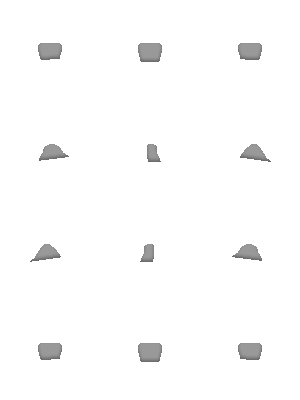
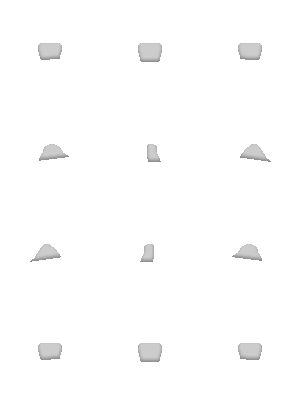
new clothes

diff --git a/gamepalclient/src/drawBlock.js b/gamepalclient/src/drawBlock.js
@@ -613,27 +613,29 @@ export const drawBlockMethods = {
           bodyPartArray[offsetXTemp][offsetYTemp] = []
           switch (bodyPart) {
             case constants.BODY_PART_TORSO:
-              image = this.drawBodyPart(canvasInfo, staticData, images, userInfo, images.bodyPartsImage.torsos[playerInfoTemp.gender - 1], offsetXTemp, offsetYTemp, imageX, imageY, x, y, xCoef, yCoef, zoomRatio, skinColors[1])
-              bodyPartArray[offsetXTemp][offsetYTemp].push(image)
               if (utilMethods.isDef(playerInfoTemp.outfits) && playerInfoTemp.outfits.length > 0) {
                 for (outfitIndex in playerInfoTemp.outfits) {
                   outfitNo = playerInfoTemp.outfits[outfitIndex]
                   switch (outfitNo) {
                     case constants.ITEM_NO_OUTFIT_ZGC_1:
-                      image = this.drawBodyPart(canvasInfo, staticData, images, userInfo, images.bodyPartsImage.torsos[playerInfoTemp.gender - 1], offsetXTemp, offsetYTemp, imageX, imageY, x, y, xCoef, yCoef, zoomRatio, 'rgba(0, 0, 196, 1)')
+                      image = this.drawBodyPart(canvasInfo, staticData, images, userInfo, images.bodyPartsImage.torsos, 4, offsetYTemp, imageX, imageY, x, y, xCoef, yCoef, zoomRatio, 'rgba(255, 255, 255, 1)')
+                      bodyPartArray[offsetXTemp][offsetYTemp].push(image)
+                      image = this.drawBodyPart(canvasInfo, staticData, images, userInfo, images.bodyPartsImage.torsos, 7, offsetYTemp, imageX, imageY, x, y, xCoef, yCoef, zoomRatio, 'rgba(0, 0, 196, 1)')
                       bodyPartArray[offsetXTemp][offsetYTemp].push(image)
                       break
                     case constants.ITEM_NO_OUTFIT_ZGC_2:
-                      image = this.drawBodyPart(canvasInfo, staticData, images, userInfo, images.bodyPartsImage.torsos[playerInfoTemp.gender - 1], offsetXTemp, offsetYTemp, imageX, imageY, x, y, xCoef, yCoef, zoomRatio, 'rgba(196, 0, 0, 1)')
+                      image = this.drawBodyPart(canvasInfo, staticData, images, userInfo, images.bodyPartsImage.torsos, 4, offsetYTemp, imageX, imageY, x, y, xCoef, yCoef, zoomRatio, 'rgba(255, 255, 255, 1)')
+                      bodyPartArray[offsetXTemp][offsetYTemp].push(image)
+                      image = this.drawBodyPart(canvasInfo, staticData, images, userInfo, images.bodyPartsImage.torsos, 7, offsetYTemp, imageX, imageY, x, y, xCoef, yCoef, zoomRatio, 'rgba(196, 0, 0, 1)')
                       bodyPartArray[offsetXTemp][offsetYTemp].push(image)
                       break
                     case constants.ITEM_NO_OUTFIT_SOLDIER:
-                      image = this.drawBodyPart(canvasInfo, staticData, images, userInfo, images.bodyPartsImage.torsos[playerInfoTemp.gender - 1], offsetXTemp, offsetYTemp, imageX, imageY, x, y, xCoef, yCoef, zoomRatio, 'rgba(0, 196, 0, 1)')
+                      image = this.drawBodyPart(canvasInfo, staticData, images, userInfo, images.bodyPartsImage.torsos, 4, offsetYTemp, imageX, imageY, x, y, xCoef, yCoef, zoomRatio, 'rgba(0, 196, 0, 1)')
                       bodyPartArray[offsetXTemp][offsetYTemp].push(image)
                       break
                     case constants.ITEM_NO_OUTFIT_SUIT_1:
                     case constants.ITEM_NO_OUTFIT_SUIT_2:
-                      image = this.drawBodyPart(canvasInfo, staticData, images, userInfo, images.bodyPartsImage.torsos[playerInfoTemp.gender - 1], offsetXTemp, offsetYTemp, imageX, imageY, x, y, xCoef, yCoef, zoomRatio, 'rgba(0, 0, 0, 1)')
+                      image = this.drawBodyPart(canvasInfo, staticData, images, userInfo, images.bodyPartsImage.torsos, 4, offsetYTemp, imageX, imageY, x, y, xCoef, yCoef, zoomRatio, 'rgba(0, 0, 0, 1)')
                       bodyPartArray[offsetXTemp][offsetYTemp].push(image)
                       break
                     case constants.ITEM_NO_OUTFIT_NRA_1:
@@ -645,11 +647,14 @@ export const drawBlockMethods = {
                     case constants.ITEM_NO_OUTFIT_NRA_7:
                     case constants.ITEM_NO_OUTFIT_IJA_1:
                     case constants.ITEM_NO_OUTFIT_IJA_2:
-                      image = this.drawBodyPart(canvasInfo, staticData, images, userInfo, images.bodyPartsImage.torsos[playerInfoTemp.gender - 1], offsetXTemp, offsetYTemp, imageX, imageY, x, y, xCoef, yCoef, zoomRatio, this.getUniformColor(outfitNo))
+                      image = this.drawBodyPart(canvasInfo, staticData, images, userInfo, images.bodyPartsImage.torsos, 5, offsetYTemp, imageX, imageY, x, y, xCoef, yCoef, zoomRatio, this.getUniformColor(outfitNo))
                       bodyPartArray[offsetXTemp][offsetYTemp].push(image)
                       break
                   }
                 }
+              } else {
+                image = this.drawBodyPart(canvasInfo, staticData, images, userInfo, images.bodyPartsImage.torsos, playerInfoTemp.gender - 1, offsetYTemp, imageX, imageY, x, y, xCoef, yCoef, zoomRatio, skinColors[1])
+                bodyPartArray[offsetXTemp][offsetYTemp].push(image)
               }
               break
             case constants.BODY_PART_LEFT_HAND:
@@ -661,16 +666,15 @@ export const drawBlockMethods = {
             case constants.BODY_PART_LEFT_ARM:
             case constants.BODY_PART_RIGHT_ARM:
               var imgArms = bodyPart == constants.BODY_PART_LEFT_ARM ? images.bodyPartsImage.left_arms : images.bodyPartsImage.right_arms
+              var imgSleevesLong = bodyPart == constants.BODY_PART_LEFT_ARM ? images.bodyPartsImage.left_sleeves_long : images.bodyPartsImage.right_sleeves_long
               var imgArmbands = bodyPart == constants.BODY_PART_LEFT_ARM ? images.bodyPartsImage.left_armbands : images.bodyPartsImage.right_armbands
               var imgZgc = bodyPart == constants.BODY_PART_LEFT_ARM ? images.bodyPartsImage.left_zgc : images.bodyPartsImage.right_zgc
-              image = this.drawBodyPart(canvasInfo, staticData, images, userInfo, imgArms, offsetXTemp, offsetYTemp, imageX, imageY, x, y, xCoef, yCoef, zoomRatio, skinColors[1])
-              bodyPartArray[offsetXTemp][offsetYTemp].push(image)
               if (utilMethods.isDef(playerInfoTemp.outfits) && playerInfoTemp.outfits.length > 0) {
                 for (outfitIndex in playerInfoTemp.outfits) {
                   outfitNo = playerInfoTemp.outfits[outfitIndex]
                   switch (outfitNo) {
                     case constants.ITEM_NO_OUTFIT_ZGC_1:
-                      image = this.drawBodyPart(canvasInfo, staticData, images, userInfo, imgArms, offsetXTemp, offsetYTemp, imageX, imageY, x, y, xCoef, yCoef, zoomRatio, 'rgba(255, 255, 255, 1)')
+                      image = this.drawBodyPart(canvasInfo, staticData, images, userInfo, imgSleevesLong, offsetXTemp, offsetYTemp, imageX, imageY, x, y, xCoef, yCoef, zoomRatio, 'rgba(255, 255, 255, 1)')
                       bodyPartArray[offsetXTemp][offsetYTemp].push(image)
                       image = this.drawBodyPart(canvasInfo, staticData, images, userInfo, imgArmbands, offsetXTemp, offsetYTemp, imageX, imageY, x, y, xCoef, yCoef, zoomRatio, 'rgba(0, 0, 196, 1)')
                       bodyPartArray[offsetXTemp][offsetYTemp].push(image)
@@ -678,7 +682,7 @@ export const drawBlockMethods = {
                       bodyPartArray[offsetXTemp][offsetYTemp].push(image)
                       break
                     case constants.ITEM_NO_OUTFIT_ZGC_2:
-                      image = this.drawBodyPart(canvasInfo, staticData, images, userInfo, imgArms, offsetXTemp, offsetYTemp, imageX, imageY, x, y, xCoef, yCoef, zoomRatio, 'rgba(255, 255, 255, 1)')
+                      image = this.drawBodyPart(canvasInfo, staticData, images, userInfo, imgSleevesLong, offsetXTemp, offsetYTemp, imageX, imageY, x, y, xCoef, yCoef, zoomRatio, 'rgba(255, 255, 255, 1)')
                       bodyPartArray[offsetXTemp][offsetYTemp].push(image)
                       image = this.drawBodyPart(canvasInfo, staticData, images, userInfo, imgArmbands, offsetXTemp, offsetYTemp, imageX, imageY, x, y, xCoef, yCoef, zoomRatio, 'rgba(196, 0, 0, 1)')
                       bodyPartArray[offsetXTemp][offsetYTemp].push(image)
@@ -686,12 +690,12 @@ export const drawBlockMethods = {
                       bodyPartArray[offsetXTemp][offsetYTemp].push(image)
                       break
                     case constants.ITEM_NO_OUTFIT_SOLDIER:
-                      image = this.drawBodyPart(canvasInfo, staticData, images, userInfo, imgArms, offsetXTemp, offsetYTemp, imageX, imageY, x, y, xCoef, yCoef, zoomRatio, 'rgba(0, 196, 0, 1)')
+                      image = this.drawBodyPart(canvasInfo, staticData, images, userInfo, imgSleevesLong, offsetXTemp, offsetYTemp, imageX, imageY, x, y, xCoef, yCoef, zoomRatio, 'rgba(0, 196, 0, 1)')
                       bodyPartArray[offsetXTemp][offsetYTemp].push(image)
                       break
                     case constants.ITEM_NO_OUTFIT_SUIT_1:
                     case constants.ITEM_NO_OUTFIT_SUIT_2:
-                      image = this.drawBodyPart(canvasInfo, staticData, images, userInfo, imgArms, offsetXTemp, offsetYTemp, imageX, imageY, x, y, xCoef, yCoef, zoomRatio, 'rgba(0, 0, 0, 1)')
+                      image = this.drawBodyPart(canvasInfo, staticData, images, userInfo, imgSleevesLong, offsetXTemp, offsetYTemp, imageX, imageY, x, y, xCoef, yCoef, zoomRatio, 'rgba(0, 0, 0, 1)')
                       bodyPartArray[offsetXTemp][offsetYTemp].push(image)
                       break
                     case constants.ITEM_NO_OUTFIT_NRA_1:
@@ -703,11 +707,14 @@ export const drawBlockMethods = {
                     case constants.ITEM_NO_OUTFIT_NRA_7:
                     case constants.ITEM_NO_OUTFIT_IJA_1:
                     case constants.ITEM_NO_OUTFIT_IJA_2:
-                      image = this.drawBodyPart(canvasInfo, staticData, images, userInfo, imgArms, offsetXTemp, offsetYTemp, imageX, imageY, x, y, xCoef, yCoef, zoomRatio, this.getUniformColor(outfitNo))
+                      image = this.drawBodyPart(canvasInfo, staticData, images, userInfo, imgSleevesLong, offsetXTemp, offsetYTemp, imageX, imageY, x, y, xCoef, yCoef, zoomRatio, this.getUniformColor(outfitNo))
                       bodyPartArray[offsetXTemp][offsetYTemp].push(image)
                       break
                   }
                 }
+              } else {
+                image = this.drawBodyPart(canvasInfo, staticData, images, userInfo, imgArms, offsetXTemp, offsetYTemp, imageX, imageY, x, y, xCoef, yCoef, zoomRatio, skinColors[1])
+                bodyPartArray[offsetXTemp][offsetYTemp].push(image)
               }
               break
             case constants.BODY_PART_BREAST:
@@ -725,31 +732,31 @@ export const drawBlockMethods = {
                     case constants.ITEM_NO_OUTFIT_ZGC_1:
                       showBreasts = false
                       showBra = false
-                      image = this.drawBodyPart(canvasInfo, staticData, images, userInfo, images.bodyPartsImage.outfit_decoration, 6, offsetYTemp, imageX, imageY, x, y, xCoef, yCoef, zoomRatio, 'rgba(0, 0, 196, 1)')
+                      image = this.drawBodyPart(canvasInfo, staticData, images, userInfo, images.bodyPartsImage.outfit_decoration, 0, offsetYTemp, imageX, imageY, x, y, xCoef, yCoef, zoomRatio, 'rgba(0, 0, 196, 1)')
                       bodyPartArray[offsetXTemp][offsetYTemp].push(image)
                       break
                     case constants.ITEM_NO_OUTFIT_ZGC_2:
                       showBreasts = false
                       showBra = false
-                      image = this.drawBodyPart(canvasInfo, staticData, images, userInfo, images.bodyPartsImage.outfit_decoration, 6, offsetYTemp, imageX, imageY, x, y, xCoef, yCoef, zoomRatio, 'rgba(196, 0, 0, 1)')
+                      image = this.drawBodyPart(canvasInfo, staticData, images, userInfo, images.bodyPartsImage.outfit_decoration, 0, offsetYTemp, imageX, imageY, x, y, xCoef, yCoef, zoomRatio, 'rgba(196, 0, 0, 1)')
                       bodyPartArray[offsetXTemp][offsetYTemp].push(image)
                       break
                     case constants.ITEM_NO_OUTFIT_SOLDIER:
                       showBreasts = false
                       showBra = false
-                      image = this.drawBodyPart(canvasInfo, staticData, images, userInfo, images.bodyPartsImage.outfit_decoration, 6, offsetYTemp, imageX, imageY, x, y, xCoef, yCoef, zoomRatio, 'rgba(0, 196, 0, 1)')
+                      image = this.drawBodyPart(canvasInfo, staticData, images, userInfo, images.bodyPartsImage.outfit_decoration, 0, offsetYTemp, imageX, imageY, x, y, xCoef, yCoef, zoomRatio, 'rgba(0, 196, 0, 1)')
                       bodyPartArray[offsetXTemp][offsetYTemp].push(image)
                       break
                     case constants.ITEM_NO_OUTFIT_SUIT_1:
                       showBreasts = false
                       showBra = false
-                      image = this.drawBodyPart(canvasInfo, staticData, images, userInfo, images.bodyPartsImage.outfit_decoration, 6, offsetYTemp, imageX, imageY, x, y, xCoef, yCoef, zoomRatio, 'rgba(0, 0, 0, 1)')
+                      image = this.drawBodyPart(canvasInfo, staticData, images, userInfo, images.bodyPartsImage.outfit_decoration, 0, offsetYTemp, imageX, imageY, x, y, xCoef, yCoef, zoomRatio, 'rgba(0, 0, 0, 1)')
                       bodyPartArray[offsetXTemp][offsetYTemp].push(image)
                       break
                     case constants.ITEM_NO_OUTFIT_SUIT_2:
                       showBreasts = false
                       showBra = false
-                      image = this.drawBodyPart(canvasInfo, staticData, images, userInfo, images.bodyPartsImage.outfit_decoration, 6, offsetYTemp, imageX, imageY, x, y, xCoef, yCoef, zoomRatio, 'rgba(0, 0, 0, 1)')
+                      image = this.drawBodyPart(canvasInfo, staticData, images, userInfo, images.bodyPartsImage.outfit_decoration, 0, offsetYTemp, imageX, imageY, x, y, xCoef, yCoef, zoomRatio, 'rgba(0, 0, 0, 1)')
                       bodyPartArray[offsetXTemp][offsetYTemp].push(image)
                       break
                     case constants.ITEM_NO_OUTFIT_NRA_1:
@@ -763,7 +770,7 @@ export const drawBlockMethods = {
                     case constants.ITEM_NO_OUTFIT_IJA_2:
                       showBreasts = false
                       showBra = false
-                      image = this.drawBodyPart(canvasInfo, staticData, images, userInfo, images.bodyPartsImage.outfit_decoration, 6, offsetYTemp, imageX, imageY, x, y, xCoef, yCoef, zoomRatio, this.getUniformColor(outfitNo))
+                      image = this.drawBodyPart(canvasInfo, staticData, images, userInfo, images.bodyPartsImage.outfit_decoration, 0, offsetYTemp, imageX, imageY, x, y, xCoef, yCoef, zoomRatio, this.getUniformColor(outfitNo))
                       bodyPartArray[offsetXTemp][offsetYTemp].push(image)
                       break
                   }
@@ -790,9 +797,9 @@ export const drawBlockMethods = {
                 }
               }
               if (hasBra && showBra) {
-                image = this.drawBodyPart(canvasInfo, staticData, images, userInfo, images.bodyPartsImage.outfit_decoration, 6, offsetYTemp, imageX, imageY, x, y, xCoef, yCoef, zoomRatio, skinColors[1])
+                image = this.drawBodyPart(canvasInfo, staticData, images, userInfo, images.bodyPartsImage.outfit_decoration, 0, offsetYTemp, imageX, imageY, x, y, xCoef, yCoef, zoomRatio, skinColors[1])
                 bodyPartArray[offsetXTemp][offsetYTemp].push(image)
-                image = this.drawBodyPart(canvasInfo, staticData, images, userInfo, images.bodyPartsImage.outfit_decoration, 7, offsetYTemp, imageX, imageY, x, y, xCoef, yCoef, zoomRatio, undefined)
+                image = this.drawBodyPart(canvasInfo, staticData, images, userInfo, images.bodyPartsImage.outfit_decoration, 1, offsetYTemp, imageX, imageY, x, y, xCoef, yCoef, zoomRatio, undefined)
                 bodyPartArray[offsetXTemp][offsetYTemp].push(image)
               }
               break
@@ -816,28 +823,22 @@ export const drawBlockMethods = {
                       break
                     case constants.ITEM_NO_OUTFIT_ZGC_1:
                       showPanties = false
-                      image = this.drawBodyPart(canvasInfo, staticData, images, userInfo, images.bodyPartsImage.outfit_decoration, 0, offsetYTemp, imageX, imageY, x, y, xCoef, yCoef, zoomRatio, undefined)
-                      bodyPartArray[offsetXTemp][offsetYTemp].push(image)
-                      image = this.drawBodyPart(canvasInfo, staticData, images, userInfo, images.bodyPartsImage.outfit_decoration, 1, offsetYTemp, imageX, imageY, x, y, xCoef, yCoef, zoomRatio, undefined)
+                      image = this.drawBodyPart(canvasInfo, staticData, images, userInfo, images.bodyPartsImage.outfit_decoration, 6, offsetYTemp, imageX, imageY, x, y, xCoef, yCoef, zoomRatio, undefined)
                       bodyPartArray[offsetXTemp][offsetYTemp].push(image)
                       break
                     case constants.ITEM_NO_OUTFIT_ZGC_2:
                       showPanties = false
-                      image = this.drawBodyPart(canvasInfo, staticData, images, userInfo, images.bodyPartsImage.outfit_decoration, 0, offsetYTemp, imageX, imageY, x, y, xCoef, yCoef, zoomRatio, undefined)
-                      bodyPartArray[offsetXTemp][offsetYTemp].push(image)
-                      image = this.drawBodyPart(canvasInfo, staticData, images, userInfo, images.bodyPartsImage.outfit_decoration, 1, offsetYTemp, imageX, imageY, x, y, xCoef, yCoef, zoomRatio, undefined)
+                      image = this.drawBodyPart(canvasInfo, staticData, images, userInfo, images.bodyPartsImage.outfit_decoration, 6, offsetYTemp, imageX, imageY, x, y, xCoef, yCoef, zoomRatio, undefined)
                       bodyPartArray[offsetXTemp][offsetYTemp].push(image)
                       break
                     case constants.ITEM_NO_OUTFIT_SOLDIER:
                       showPanties = false
-                      image = this.drawBodyPart(canvasInfo, staticData, images, userInfo, images.bodyPartsImage.outfit_decoration, 0, offsetYTemp, imageX, imageY, x, y, xCoef, yCoef, zoomRatio, undefined)
-                      bodyPartArray[offsetXTemp][offsetYTemp].push(image)
                       image = this.drawBodyPart(canvasInfo, staticData, images, userInfo, images.bodyPartsImage.outfit_decoration, 5, offsetYTemp, imageX, imageY, x, y, xCoef, yCoef, zoomRatio, undefined)
                       bodyPartArray[offsetXTemp][offsetYTemp].push(image)
                       break
                     case constants.ITEM_NO_OUTFIT_SUIT_1:
                       showPanties = false
-                      image = this.drawBodyPart(canvasInfo, staticData, images, userInfo, images.bodyPartsImage.outfit_decoration, 2, offsetYTemp, imageX, imageY, x, y, xCoef, yCoef, zoomRatio, undefined)
+                      image = this.drawBodyPart(canvasInfo, staticData, images, userInfo, images.bodyPartsImage.outfit_decoration, 4, offsetYTemp, imageX, imageY, x, y, xCoef, yCoef, zoomRatio, undefined)
                       bodyPartArray[offsetXTemp][offsetYTemp].push(image)
                       break
                     case constants.ITEM_NO_OUTFIT_SUIT_2:
@@ -855,18 +856,16 @@ export const drawBlockMethods = {
                     case constants.ITEM_NO_OUTFIT_IJA_1:
                     case constants.ITEM_NO_OUTFIT_IJA_2:
                       showPanties = false
-                      image = this.drawBodyPart(canvasInfo, staticData, images, userInfo, images.bodyPartsImage.outfit_decoration, 4, offsetYTemp, imageX, imageY, x, y, xCoef, yCoef, zoomRatio, this.getUniformColor(outfitNo))
-                      bodyPartArray[offsetXTemp][offsetYTemp].push(image)
                       break
                   }
                 }
               }
               if (hasPanties && showPanties) {
                 if (playerInfoTemp.gender == constants.GENDER_FEMALE) {
-                  image = this.drawBodyPart(canvasInfo, staticData, images, userInfo, images.bodyPartsImage.outfit_decoration, 7, offsetYTemp, imageX, imageY, x, y, xCoef, yCoef, zoomRatio, undefined)
+                  image = this.drawBodyPart(canvasInfo, staticData, images, userInfo, images.bodyPartsImage.outfit_decoration, 1, offsetYTemp, imageX, imageY, x, y, xCoef, yCoef, zoomRatio, undefined)
                   bodyPartArray[offsetXTemp][offsetYTemp].push(image)
                 }
-                image = this.drawBodyPart(canvasInfo, staticData, images, userInfo, images.bodyPartsImage.outfit_decoration, 8, offsetYTemp, imageX, imageY, x, y, xCoef, yCoef, zoomRatio, undefined)
+                image = this.drawBodyPart(canvasInfo, staticData, images, userInfo, images.bodyPartsImage.outfit_decoration, 2, offsetYTemp, imageX, imageY, x, y, xCoef, yCoef, zoomRatio, undefined)
                 bodyPartArray[offsetXTemp][offsetYTemp].push(image)
               }
               break
@@ -893,8 +892,6 @@ export const drawBlockMethods = {
                   yCoef /= 2
                 }
               }
-              image = this.drawBodyPart(canvasInfo, staticData, images, userInfo, imgFeet, offsetXTemp, offsetYTemp, imageX, imageY, x, y, xCoef, yCoef, zoomRatio, skinColors[1])
-              bodyPartArray[offsetXTemp][offsetYTemp].push(image)
               if (utilMethods.isDef(playerInfoTemp.outfits) && playerInfoTemp.outfits.length > 0) {
                 for (outfitIndex in playerInfoTemp.outfits) {
                   outfitNo = playerInfoTemp.outfits[outfitIndex]
@@ -924,11 +921,15 @@ export const drawBlockMethods = {
                       break
                   }
                 }
+              } else {
+                image = this.drawBodyPart(canvasInfo, staticData, images, userInfo, imgFeet, offsetXTemp, offsetYTemp, imageX, imageY, x, y, xCoef, yCoef, zoomRatio, skinColors[1])
+                bodyPartArray[offsetXTemp][offsetYTemp].push(image)
               }
               break
             case constants.BODY_PART_LEFT_LEG:
             case constants.BODY_PART_RIGHT_LEG:
               var imgLegs = bodyPart == constants.BODY_PART_LEFT_LEG ? images.bodyPartsImage.left_legs : images.bodyPartsImage.right_legs
+              var imgTrouserLegsLong = bodyPart == constants.BODY_PART_LEFT_LEG ? images.bodyPartsImage.left_trouser_legs_long : images.bodyPartsImage.right_trouser_legs_long
               if (utilMethods.isDef(playerInfoTemp.buff)) {
                 if (playerInfoTemp.buff[constants.BUFF_CODE_DEAD] !== 0) {
                   yCoef /= 2
@@ -937,27 +938,25 @@ export const drawBlockMethods = {
                   yCoef /= 2
                 }
               }
-              image = this.drawBodyPart(canvasInfo, staticData, images, userInfo, imgLegs, offsetXTemp, offsetYTemp, imageX, imageY, x, y, xCoef, yCoef, zoomRatio, skinColors[1])
-              bodyPartArray[offsetXTemp][offsetYTemp].push(image)
               if (utilMethods.isDef(playerInfoTemp.outfits) && playerInfoTemp.outfits.length > 0) {
                 for (outfitIndex in playerInfoTemp.outfits) {
                   outfitNo = playerInfoTemp.outfits[outfitIndex]
                   switch (outfitNo) {
                     case constants.ITEM_NO_OUTFIT_ZGC_1:
-                      image = this.drawBodyPart(canvasInfo, staticData, images, userInfo, imgLegs, offsetXTemp, offsetYTemp, imageX, imageY, x, y, xCoef, yCoef, zoomRatio, 'rgba(0, 0, 196, 1)')
+                      image = this.drawBodyPart(canvasInfo, staticData, images, userInfo, imgTrouserLegsLong, offsetXTemp, offsetYTemp, imageX, imageY, x, y, xCoef, yCoef, zoomRatio, 'rgba(0, 0, 196, 1)')
                       bodyPartArray[offsetXTemp][offsetYTemp].push(image)
                       break
                     case constants.ITEM_NO_OUTFIT_ZGC_2:
-                      image = this.drawBodyPart(canvasInfo, staticData, images, userInfo, imgLegs, offsetXTemp, offsetYTemp, imageX, imageY, x, y, xCoef, yCoef, zoomRatio, 'rgba(196, 0, 0, 1)')
+                      image = this.drawBodyPart(canvasInfo, staticData, images, userInfo, imgTrouserLegsLong, offsetXTemp, offsetYTemp, imageX, imageY, x, y, xCoef, yCoef, zoomRatio, 'rgba(196, 0, 0, 1)')
                       bodyPartArray[offsetXTemp][offsetYTemp].push(image)
                       break
                     case constants.ITEM_NO_OUTFIT_SOLDIER:
-                      image = this.drawBodyPart(canvasInfo, staticData, images, userInfo, imgLegs, offsetXTemp, offsetYTemp, imageX, imageY, x, y, xCoef, yCoef, zoomRatio, 'rgba(0, 98, 0, 1)')
+                      image = this.drawBodyPart(canvasInfo, staticData, images, userInfo, imgTrouserLegsLong, offsetXTemp, offsetYTemp, imageX, imageY, x, y, xCoef, yCoef, zoomRatio, 'rgba(0, 98, 0, 1)')
                       bodyPartArray[offsetXTemp][offsetYTemp].push(image)
                       break
                     case constants.ITEM_NO_OUTFIT_SUIT_1:
                     case constants.ITEM_NO_OUTFIT_SUIT_2:
-                      image = this.drawBodyPart(canvasInfo, staticData, images, userInfo, imgLegs, offsetXTemp, offsetYTemp, imageX, imageY, x, y, xCoef, yCoef, zoomRatio, 'rgba(0, 0, 0, 1)')
+                      image = this.drawBodyPart(canvasInfo, staticData, images, userInfo, imgTrouserLegsLong, offsetXTemp, offsetYTemp, imageX, imageY, x, y, xCoef, yCoef, zoomRatio, 'rgba(0, 0, 0, 1)')
                       bodyPartArray[offsetXTemp][offsetYTemp].push(image)
                       break
                     case constants.ITEM_NO_OUTFIT_NRA_1:
@@ -969,11 +968,14 @@ export const drawBlockMethods = {
                     case constants.ITEM_NO_OUTFIT_NRA_7:
                     case constants.ITEM_NO_OUTFIT_IJA_1:
                     case constants.ITEM_NO_OUTFIT_IJA_2:
-                      image = this.drawBodyPart(canvasInfo, staticData, images, userInfo, imgLegs, offsetXTemp, offsetYTemp, imageX, imageY, x, y, xCoef, yCoef, zoomRatio, this.getUniformColor(outfitNo))
+                      image = this.drawBodyPart(canvasInfo, staticData, images, userInfo, imgTrouserLegsLong, offsetXTemp, offsetYTemp, imageX, imageY, x, y, xCoef, yCoef, zoomRatio, this.getUniformColor(outfitNo))
                       bodyPartArray[offsetXTemp][offsetYTemp].push(image)
                       break
                   }
                 }
+              } else {
+                image = this.drawBodyPart(canvasInfo, staticData, images, userInfo, imgLegs, offsetXTemp, offsetYTemp, imageX, imageY, x, y, xCoef, yCoef, zoomRatio, skinColors[1])
+                bodyPartArray[offsetXTemp][offsetYTemp].push(image)
               }
               break
           }

diff --git a/gamepalclient/src/components/worldComponent.vue b/gamepalclient/src/components/worldComponent.vue
@@ -195,20 +195,27 @@
             <img id="horse" src="../assets/image/animals/horse.png" />
 
             <img id="avatars" src="../assets/image/characters/avatars.png" />
-            <img id="male_torsos" src="../assets/image/characters/male_torsos.png" />
-            <img id="female_torsos" src="../assets/image/characters/female_torsos.png" />
+            <img id="torsos" src="../assets/image/characters/torsos.png" />
             <img id="left_arms" src="../assets/image/characters/left_arms.png" />
+            <img id="left_sleeves_short" src="../assets/image/characters/left_sleeves_short.png" />
+            <img id="left_sleeves_medium" src="../assets/image/characters/left_sleeves_medium.png" />
+            <img id="left_sleeves_long" src="../assets/image/characters/left_sleeves_long.png" />
             <img id="left_armbands" src="../assets/image/characters/left_armbands.png" />
-            <img id="left_feet" src="../assets/image/characters/left_feet.png" />
+            <img id="left_zgc" src="../assets/image/characters/left_zgc.png" />
             <img id="left_hands" src="../assets/image/characters/left_hands.png" />
             <img id="left_legs" src="../assets/image/characters/left_legs.png" />
-            <img id="left_zgc" src="../assets/image/characters/left_zgc.png" />
+            <img id="left_trouser_legs_long" src="../assets/image/characters/left_trouser_legs_long.png" />
+            <img id="left_feet" src="../assets/image/characters/left_feet.png" />
             <img id="right_arms" src="../assets/image/characters/right_arms.png" />
+            <img id="right_sleeves_short" src="../assets/image/characters/right_sleeves_short.png" />
+            <img id="right_sleeves_medium" src="../assets/image/characters/right_sleeves_medium.png" />
+            <img id="right_sleeves_long" src="../assets/image/characters/right_sleeves_long.png" />
             <img id="right_armbands" src="../assets/image/characters/right_armbands.png" />
-            <img id="right_feet" src="../assets/image/characters/right_feet.png" />
+            <img id="right_zgc" src="../assets/image/characters/right_zgc.png" />
             <img id="right_hands" src="../assets/image/characters/right_hands.png" />
             <img id="right_legs" src="../assets/image/characters/right_legs.png" />
-            <img id="right_zgc" src="../assets/image/characters/right_zgc.png" />
+            <img id="right_trouser_legs_long" src="../assets/image/characters/right_trouser_legs_long.png" />
+            <img id="right_feet" src="../assets/image/characters/right_feet.png" />
             <img id="accessories" src="../assets/image/characters/accessories.png" />
             <img id="breasts" src="../assets/image/characters/breasts.png" />
             <img id="hairstyles" src="../assets/image/characters/hairstyles.png" />
@@ -463,19 +470,27 @@ export default {
       ]
       images.avatarsImage = document.getElementById('avatars')
       images.bodyPartsImage = {
-        torsos: [document.getElementById('male_torsos'), document.getElementById('female_torsos')],
+        torsos: document.getElementById('torsos'),
         left_arms: document.getElementById('left_arms'),
         right_arms: document.getElementById('right_arms'),
+        left_sleeves_short: document.getElementById('left_sleeves_short'),
+        right_sleeves_short: document.getElementById('right_sleeves_short'),
+        left_sleeves_medium: document.getElementById('left_sleeves_medium'),
+        right_sleeves_medium: document.getElementById('right_sleeves_medium'),
+        left_sleeves_long: document.getElementById('left_sleeves_long'),
+        right_sleeves_long: document.getElementById('right_sleeves_long'),
         left_armbands: document.getElementById('left_armbands'),
         right_armbands: document.getElementById('right_armbands'),
+        left_zgc: document.getElementById('left_zgc'),
+        right_zgc: document.getElementById('right_zgc'),
         left_hands: document.getElementById('left_hands'),
         right_hands: document.getElementById('right_hands'),
         left_legs: document.getElementById('left_legs'),
         right_legs: document.getElementById('right_legs'),
+        left_trouser_legs_long: document.getElementById('left_trouser_legs_long'),
+        right_trouser_legs_long: document.getElementById('right_trouser_legs_long'),
         left_feet: document.getElementById('left_feet'),
         right_feet: document.getElementById('right_feet'),
-        left_zgc: document.getElementById('left_zgc'),
-        right_zgc: document.getElementById('right_zgc'),
         breasts: document.getElementById('breasts'),
         accessories: document.getElementById('accessories'),
         hairstyles: document.getElementById('hairstyles'),

diff --git a/gamepalclient/src/draw.js b/gamepalclient/src/draw.js
@@ -1273,8 +1273,8 @@ export const drawMethods = {
     if (utilMethods.isDef(userInfo.playerInfo) && userInfo.playerInfo.playerStatus == constants.PLAYER_STATUS_RUNNING) {
       playerInfoTemp = Object.assign({}, userInfo.playerInfo)
       playerInfoTemp.speed = {
-        x: Math.sin(timestamp % 4000 * Math.PI * 2 / 4000),
-        y: Math.cos(timestamp % 4000 * Math.PI * 2 / 4000)
+        x: Math.sin(timestamp % 8000 * Math.PI * 2 / 8000),
+        y: Math.cos(timestamp % 8000 * Math.PI * 2 / 8000)
       }
       playerInfoTemp.faceDirection = utilMethods.calculateAngle(playerInfoTemp.speed.x, playerInfoTemp.speed.y)
       playerInfoTemp.outfits = []
@@ -1306,8 +1306,8 @@ export const drawMethods = {
       beard: document.getElementById('initialization-beard').value,
       avatar: document.getElementById('initialization-avatar').value,
       speed: {
-        x: Math.sin(timestamp % 4000 * Math.PI * 2 / 4000),
-        y: Math.cos(timestamp % 4000 * Math.PI * 2 / 4000)
+        x: Math.sin(timestamp % 8000 * Math.PI * 2 / 8000),
+        y: Math.cos(timestamp % 8000 * Math.PI * 2 / 8000)
       },
       tools: userInfo.playerInfo.tools,
       outfits: userInfo.playerInfo.outfits,
